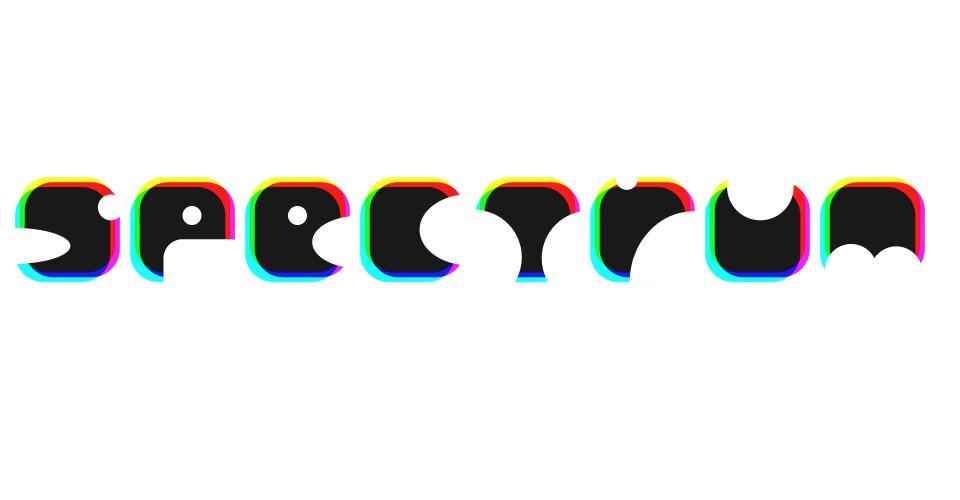
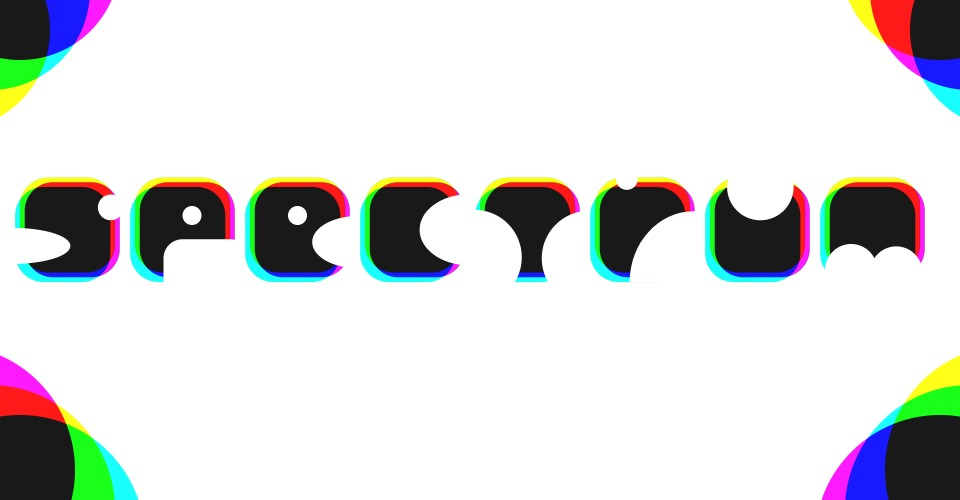
Final changes + readme updated

diff --git a/draw_letters.js b/draw_letters.js
@@ -1,9 +1,9 @@
 /* these are optional special variables which will change the system */
 var systemBackgroundColor = "#FFFFFF";
+//var systemBackgroundColor = "#c2c1be";
 var systemLineColor = "#000090";
 var systemLineColor = "#000090";
 var systemBoxColor = "#999999";
-
 
 
 function drawLetter(letterData) {
@@ -72,6 +72,7 @@ function drawLetter(letterData) {
   pop();
 }
 
+
 function interpolate_letter(percent, oldObj, newObj) {
   let new_letter = {};
 
@@ -87,10 +88,10 @@ function interpolate_letter(percent, oldObj, newObj) {
   
   //if percent is below 50%:
   if (percent < 50) {
-    //move center of bounding box to 150 - this will move the base rectangle, arc and overlayed rectangle X postion during interpolation to the right
+    //move center of bounding box to 150 - this will move the base shapes, arc and overlayed rectangle X postion during interpolation to the right
     new_letter["boxCenterX"] = map(percent, 0, 49, oldObj["boxCenterX"], 150);
 
-    //shrink and close arc
+    //shrink and close arc completely
     new_letter["arcW"] = map(percent, 0, 49, oldObj["arcW"], 0);
     new_letter["arcH"] = map(percent, 0, 49, oldObj["arcH"], 0);
     new_letter["arcStart"] = map(percent, 0, 49, oldObj["arcStart"], 360);
@@ -98,10 +99,10 @@ function interpolate_letter(percent, oldObj, newObj) {
 
   //else - the percent is equal to or above 50%:
   } else {
-    //move center of bounding box from 150 back to center position - this will move the base rectangle, arc and overlayed rectangle X postion back to the left 
+    //move center of bounding box from 150 back to center position - this will move the base shapes, arc and overlayed rectangle X postion back to the left 
     new_letter["boxCenterX"] = map(percent, 50, 100, 150, newObj["boxCenterX"]);
 
-    //move arc to new obj width, height and 'openess'
+    //move arc to newObj width, height and 'openess'
     new_letter["arcW"] = map(percent, 50, 100, 0, newObj["arcW"]);
     new_letter["arcH"] = map(percent, 50, 100, 0, newObj["arcH"]);
     new_letter["arcStart"] = map(percent, 50, 100, 360, newObj["arcStart"]);
@@ -120,5 +121,6 @@ var swapWords = [
   "BOLDNESS",
   "INFINITE",
   "MINIMISE",
+  "12345678"
   
 ]

diff --git a/index.html b/index.html
@@ -7,11 +7,11 @@
     <script language="javascript" type="text/javascript" src="exhibition.js"></script>
 
   <meta
-    name="Spectrum by Hannah Kai Fong"
+    name="SPECTRUM by Hannah Kai Fong"
     content="Code driven letterforms exploring a CMYK colourway and negative space."
   />
   <meta name="description" content="Code driven letterforms exploring a CMYK colourway and negative space." />
-  <meta property="og:title" content="Spectrum by Hannah Kai Fong" />
+  <meta property="og:title" content="SPECTRUM by Hannah Kai Fong" />
   <meta property="og:type" content="website" />
   <meta property="og:url" content="https://23-2-dsdn242.github.io/mddn242-parametric-design-kaifohann/" />
   <meta property="og:image" content="https://23-2-dsdn242.github.io/mddn242-parametric-design-kaifohann/preview.jpg" />
@@ -20,7 +20,7 @@
   <meta property="og:description" content="Code driven letterforms exploring a CMYK colourway and negative space." />
   <meta name="twitter:card" content="summary_large_image" />
   <meta name="twitter:creator" content="@uwcc" />
-  <meta name="twitter:title" content="Spectrum by Hannah Kai Fong" />
+  <meta name="twitter:title" content="SPECTRUM by Hannah Kai Fong" />
   <meta name="twitter:description" content="Code driven letterforms exploring a CMYK colourway and negative space." />
   <meta name="twitter:image" content="https://23-2-dsdn242.github.io/mddn242-parametric-design-kaifohann/preview.jpg" />
 

diff --git a/letters.js b/letters.js
@@ -4,12 +4,12 @@ const alphabet = {
     "offsetx": -2, //overlaying rectangle X position relative to center of bounding box
     "offsety": 28, //overlaying rectangle Y position relative to center of bounding box
     "CornerRounds": 100, //roundedness (radius) of corners on overlaying rectangle
-    "arcX": 0, //arc X postion relative to center of bounding box
-    "arcY": -6, //arc X postion relative to center of bounding box
-    "arcW": 45, //arc width
-    "arcH": 45, //arc height
-    "arcStart": 230, //arc start angle
-    "arcStop": 90, //arc stop angle
+    "arcX": 3, //arc X postion relative to center of bounding box
+    "arcY": 18, //arc X postion relative to center of bounding box
+    "arcW": 90, //arc width
+    "arcH": 90, //arc height
+    "arcStart": 255, //arc start angle
+    "arcStop": 285, //arc stop angle
     "boxCenterX": 50 //center of bounding box. X position of all shapes are relative to this parameter
    
   },
@@ -392,10 +392,10 @@ const alphabet = {
 
   },
   "1": {
-    "rectSize": 90,
-    "offsetx": -90,
-    "offsety": -15,
-    "CornerRounds": 20,//69
+    "rectSize": 70,
+    "offsetx": -65,
+    "offsety": 0,
+    "CornerRounds": 15,//69
     "arcX": -62,
     "arcY": -54,
     "arcW": 80,

diff --git a/exhibition.js b/exhibition.js
@@ -230,6 +230,9 @@ function draw () {
     var obj = computeCurrentChosenChar(i);
     drawFromDataObject(o + i*w2/8.0, o + h2/2.0 - 120, 1.0, obj)
   }
+  //draw exhibition background elemtns
+  exhibitionBackground();
+
 }
 
 function swapExhibitLetter(n, c, frameDelay) {
@@ -255,4 +258,35 @@ function keyTyped() {
     swapExhibitLetter(curChosenLetter, upper_key, 0);
     curChosenLetter = (curChosenLetter + 1) % 8;  
   }
+}
+
+function exhibitionBackground(){
+  
+  //draws background elements on exhibition canvas. Circle in each cmyk colour in all 4 corners
+  //set to multiply blend mode to create same effect as letterforms
+  push();
+  blendMode(MULTIPLY);
+  noStroke();
+  
+
+  fill(255, 255, 0, 230); //yellow
+  ellipse(-10, 510, 250, 250);
+  ellipse(1010, 470, 250, 250);
+  ellipse(940, -40, 200, 200);
+  ellipse(-50, 30, 200, 200);
+
+  fill(0,255,255, 230); //cyan
+  ellipse(20, 540, 250, 250);
+  ellipse(970, 510, 250, 250);
+  ellipse(1010, 30, 200, 200);
+  ellipse(-10, -10, 200, 200);
+
+  fill(255,0,255,230); //magenta
+  ellipse(-50, 470, 250, 250);
+  ellipse(940, 540, 250, 250);
+  ellipse(970, -10, 200, 200);
+  ellipse(20, -40, 200, 200);
+
+  pop();
+
 }

diff --git a/README.md b/README.md
@@ -1,15 +1,15 @@
 # MDDN 242 2023 Assignment 2: Parametric Design
 
-##Spectrum by Hannah Kai Fong
+##SPECTRUM by Hannah Kai Fong
 
-Each letter form's base is composed of a yellow, cyan and magenta square with rounded corners and a slight offset from one another. The blendmode for the base is set to 'multiply', so the overlapping sections are black. Each form has a an overlayed white rectangle and overlayed arc to 'cut out' sections of the base rectangle and create the letters with positve space. 
-The arc's X position, Y position, width, height, start angle and stop angle can be controlled through parameters. 
-The overlayed rectangles size, X position, Y position and corner roundedness can be controlled through parameters as well.
+Each letter form's base is composed of a yellow, cyan, and magenta square with rounded corners and a slight offset from one another. The blend mode for the base is set to 'multiply', so the overlapping sections are black. Each form has an overlayed white rectangle and overlayed arc to 'cut out' sections of the base rectangle and create the letterforms with positive space. 
+The arc's X position, Y position, width, height, start angle, and stop angle can be controlled through parameters. 
+The overlayed rectangle size, X position, Y position, and corner roundedness can be controlled through parameters as well.
 The X position of all shapes in draw_letters.js is relative to the 'boxCenterX' parameter, which allows the letterforms to have consistent horizontal movement when interpolating. 
 
 The 11 parameters for each letter are:
 
-  * 'boxCenterX': the center of the bounding box (only used to base other shapes' X position on and have even horizontal movement when interpolating)
+  * 'boxCenterX': the center of the bounding box (only used to base other shapes' X position on and for even horizontal movement when interpolating)
   * 'rectSize' : size of overlayed rect (width and height are equal)
   * 'offsetx' : overlayed rect X position 
   * 'offsety' : overlayed rect Y position
@@ -21,14 +21,30 @@ The 11 parameters for each letter are:
   * 'arcStart' : overlayed arc start angle
   * 'arcStop' : overlayed arc stop angle
 
-My Design Processs:
+My Design Process:
 
+I started this design process with a series of sketches that were quite different. I experimented with only using arcs to create the letterforms and only using rectangles before I started attempting to layer different shapes. I found that I quite liked the effect of layering shapes which were the same colour as the background on top of a base shape to 'take chunks' out of the central form. This started as quite geometric, however, I started playing with rounding corners on rectangles and ended up with the forms I created for my sketch page. These were made of a rounded rectangle/square base and an overlayed arc and set-sized ellipse that were the same colour as the background. I enjoyed how fun and soft these forms were compared to using sharp vertexes. This technique I was using (taking chunks out of a base form) reminded me of taking bites from an apple, so the initial colour palette was chosen to mimic green apples. 
 
-(Replace this README with information about your alphabet. This is an example.)
+I recreated this green apple effect in my draw_letters.js file before starting work on the other letters. 
+My initial parameters were the ellipse X position, ellipse Y position, arc X position, arc Y position, arc height, arc width, arc start, and arc stop. 
 
-Each of my letters is composed with two circles. The size and position of the first circle is fixed, but the location and size of the second circle is controlled by three parameters.
+I started running into some major problems when I got to 'H' and 'I'. I realised having a set ellipse size stopped me from taking bigger chunks out of the letters and stopped me from creating forms with a symmetry line (vertical or horizontal). To fix this, I added the ellipse size as a parameter. 
 
-The three parameters per letter:
-  * `size` : radius of the second circle
-  * `offsetx` : x offset of the second circle relative to the first one
-  * `offsety` : y offset of the second circle relative to the first one
+I then came across another issue when I got to 'J'. Initially, the J had a large ellipse overlaying its base shape, however when checking the exhibition page, I realised that because the ellipse exceeded the bounding box, it would take chunks out of neighbouring letters. I attempted to shrink the ellipse down, however, I wasn't able to make a recognisable letter form without it exceeding the bounding box. I chose to change the ellipse to a square and create a corner rounding parameter that let me turn the square into a circle when it was needed. This looked much better, but it still had a slight overlap with neighbouring letters. To fix this I ended up scaling all of the shapes down. I thought this might create too much room between the exhibition letter forms, but surprisingly I think it gave them more space to breathe. I also realised that for the letters with verticle symmetry, I could place the arc on the left and the rounded rectangle on the right. Because the arc start/stop degree was a parameter, I was able to use semi circles to avoid overlapping the previous letter in exhibition mode. I liked the flexibility of this and proceeded with the rest of the letterforms. 
+
+At this point the letterforms were looking a bit flat, so I wanted to find a way to create some more contrast. I tried some higher contrast colour palettes, different stroke weights, and multiple colours but I didn't like the aesthetic outcomes. I had a look through the P5js website to see if there were some effects to play with and came across blendMode(). I experimented with using these modes and altering the base shape. It started to remind me of the CMYK display (the 3 overlapping CMY circles). It also reminded me of Felipe Pantone's work, which I find interesting so I decided to run with this. I switched to a CMYK colour palette, which I applied to 3 slightly offset squares. Setting the blend mode to 'multiply' made the colours react similarly to CMYK printing and formed sections of black that added good contrast to the design. 
+I played around with the opacity of the CMYK colours to get an effect that showed off each colour well. Oddly, I ended up leaving the 0.5 green stroke around the letters as it reminded me of double layering cellophane - It's a very minor detail but I think it adds a tiny bit more depth when up-close to the letters. Making these changes lifted the design and made it a lot more visually intriguing. 
+
+To set the numbers apart (particularly the '2' from 'Z'), I allowed myself to use the center of the arc as a sharp vertex. I had avoided doing this for the letter forms as I liked how soft the forms looked without it, but I wanted to ensure the typeface was as legible as possible. This had a particularly successful effect on the 3, 4, and 6 as I think they're easily readable while also having a super fun, distinct style. 
+
+I then moved on to the animation section of the brief. Because the arcs didn't have a set direction of movement, by default they would interpolate unpredictably. To fix this, I played around with them and found that essentially making the arc disappear (width = 0, height = 0, start/stop = 0 or 360), was the best effect. At the 50% mark of the interpolation, the arc would disappear entirely and then smoothly spring back into the new shape's position by 100%. This reflected the font's smooth style well and stopped obvious sharp vertices appearing on the letterforms during interpolation. 
+
+Even though I was happy with this, I still felt the movement was boring overall. The overlapping CMYK shapes gave me the idea of overlapping the letterforms. As all my shapes' X and Y positions were relative to the center of the bounding box (variables I had defined in my drawLetter function), I decided that it would be fun to play with moving the 'center' around. I made boxCenterX and boxCenterY into parameters and tested what effect changing these could create. I found that the movement of the letters was more interesting, but changing both the X and Y positions wasn't a satisfying transition as it didn't look purposeful. 
+The X position movement was more satisfying - especially because the base colours weren't at full opacity, which allowed for some subtle layering effects to happen when the letters crossed over each other. I got rid of the boxCenterY parameter and stuck with the boxCenterX parameter. I settled on having this horizontal movement happen at the same rate as the arc shrunk/resized as it felt more cohesive.
+
+Retrospectively, there was likely a better way to do this. Currently, boxCenterX is the same value for every letter, it just gets edited in the interpolate_letter function. This seems like a waste of a parameter, however, I wasn't able to figure out a way to do this another way. Since I wanted the overlayed shapes to move with the base shape, this seemed like the best option, but if I had had more time I would have tried to find a different way of doing this.
+Overall though, I think the transitions are interesting and effective and show off the typefaces' style and colour ideas well. 
+
+For a final touch, I decided to add a bit more interest to the exhibition page. I liked the 'cleanness' of having an entirely white background, but I loved the multiply colour effect so much that I wanted to highlight this in my final. I created a separate function in exhibition.js (exhibitionBackground()) to do this. I started with some rectangles in the 4 corners to frame the central word but decided I wanted to reflect the roundedness of the font. I changed the rectangles to ellipses and layered them slightly differently in each corner to show off the shades that the multiply effect could produce. I think the final outcome adds a lot of interest and dimension to the exhibition page, without interfering too much with the central word. 
+
+Overall I'm quite happy with the final design. I think that it has a unique look to it and explores some fun colour concepts and movement. I would have liked to fix the X movement parameter issue. I would have also liked to make the letterforms more cohesive - potentially creating a 'grid' on the base shape so that the overlaying shapes had a more consistent placement between the letters. By doing this I could have made the thickness of the letter 'strokes' more uniform, which potentially would have made the words look more balanced. 
